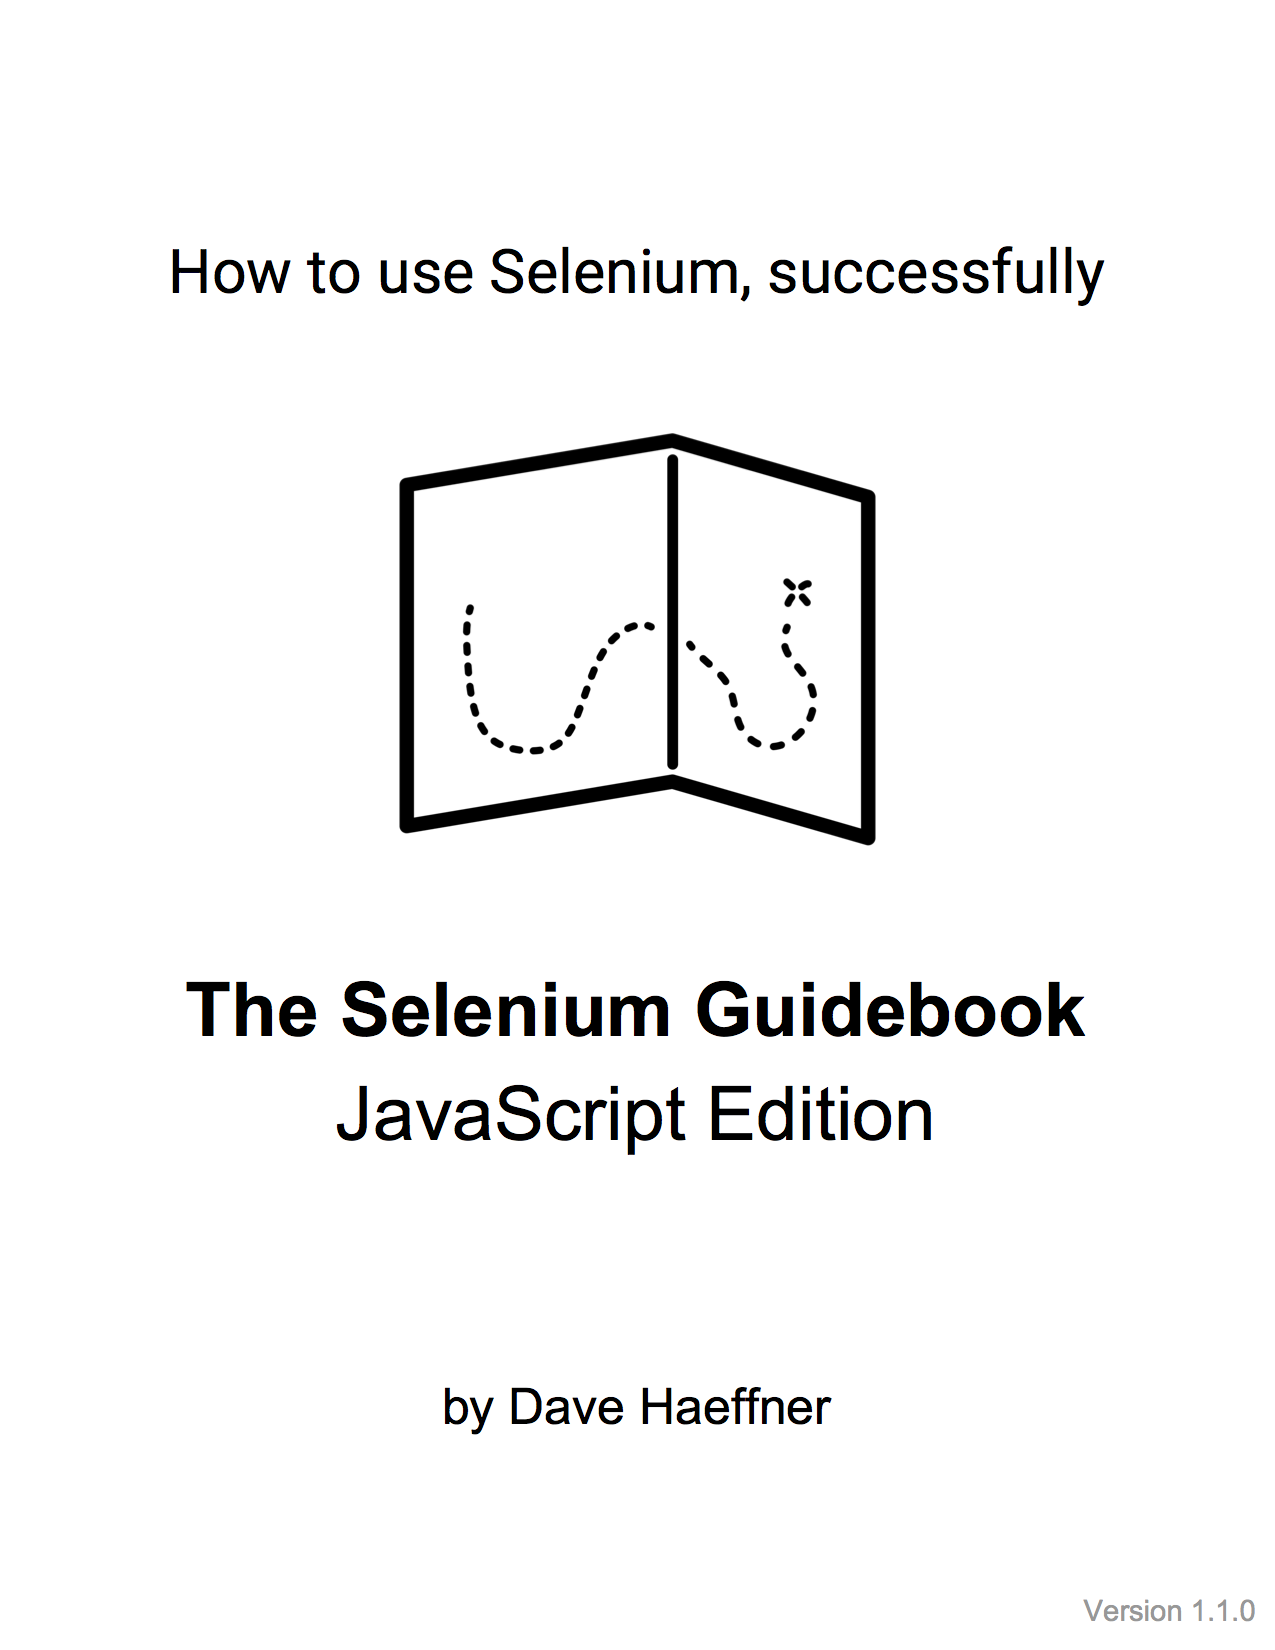
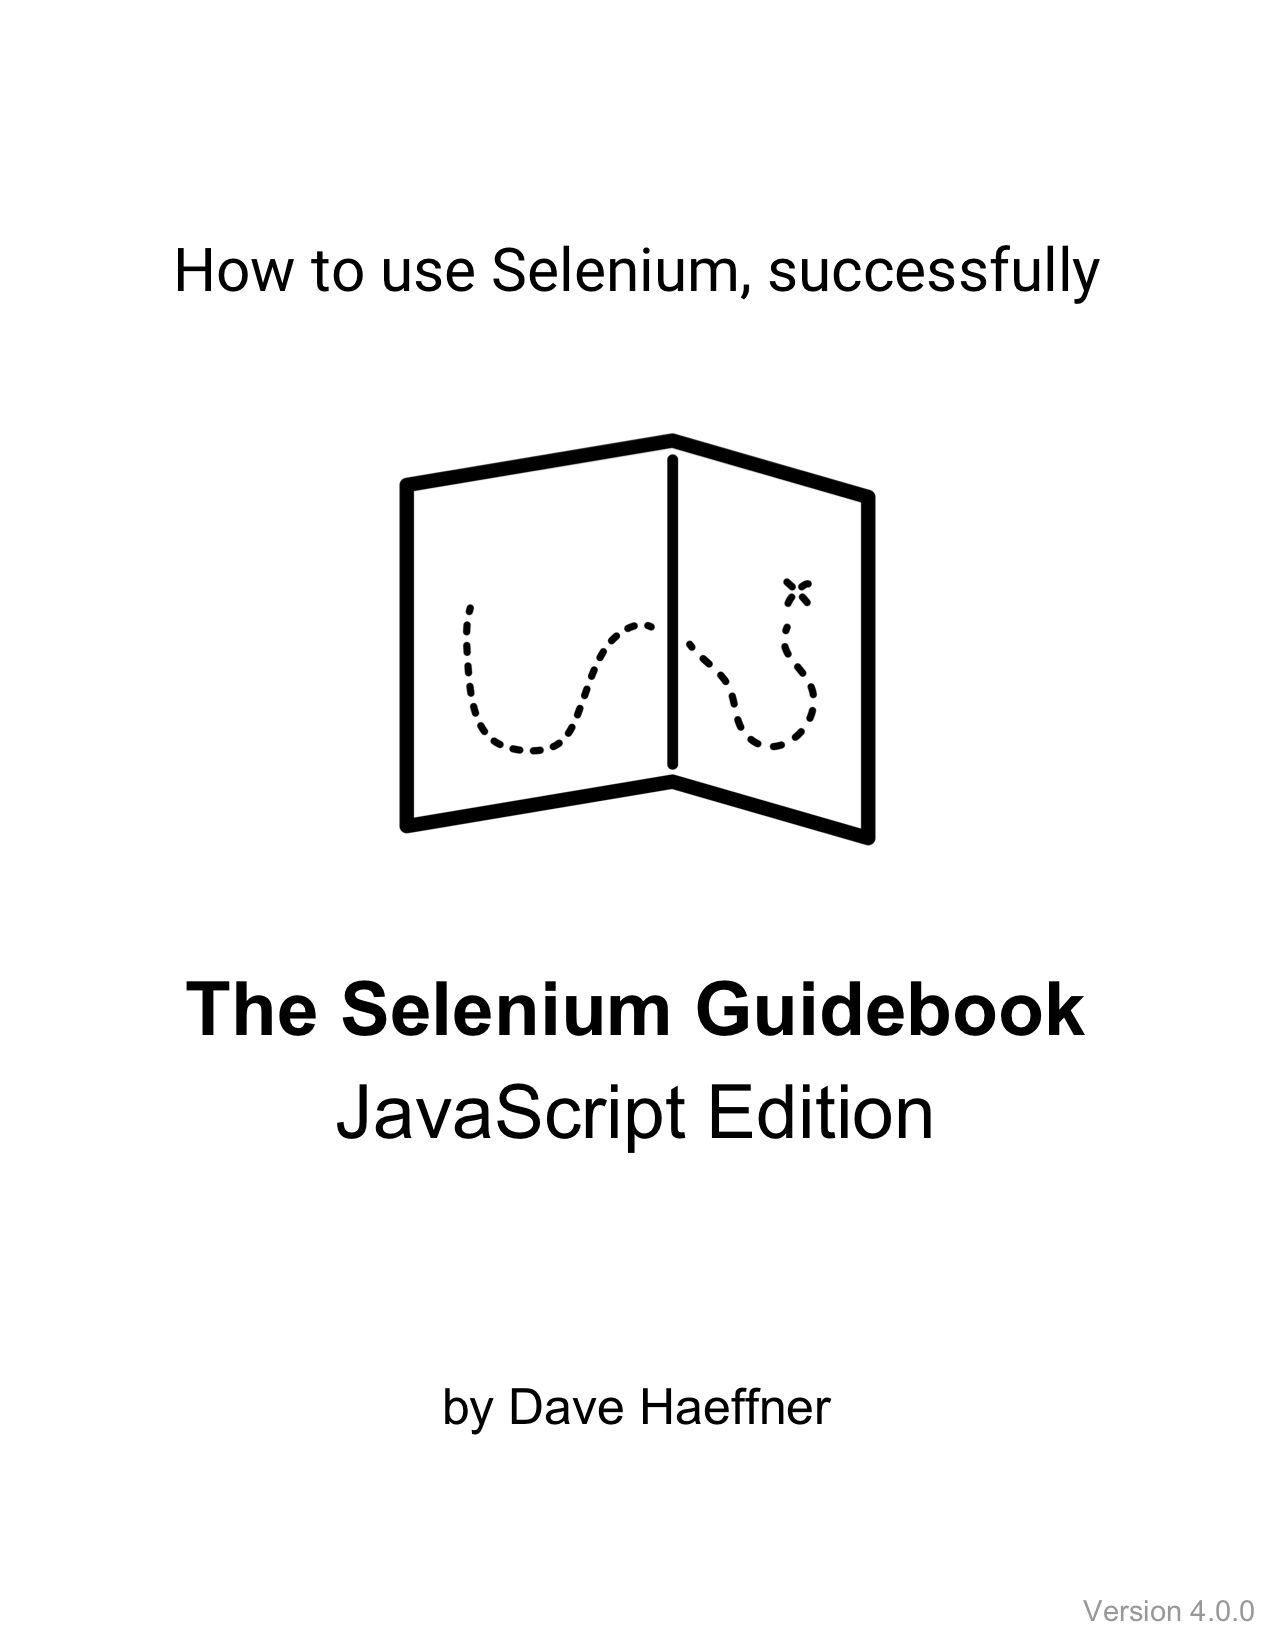
Copy tweaks to JS book and updated cover image

diff --git a/book/javascript/content/chapters/17.md b/book/javascript/content/chapters/17.md
@@ -17,20 +17,19 @@ There are numerous CI Servers available for use today, most notably:
 + [Bamboo](https://www.atlassian.com/software/bamboo)
 + [CircleCI](https://circleci.com)
 + [Jenkins](https://jenkins.io)
-+ [Solano Labs](https://www.solanolabs.com/)
 + [TravisCI](https://travis-ci.org/)
 
 Let's pick one and step through an example.
 
 ## A CI Example
 
-[Jenkins](https://jenkins.io) is a fully functional, widely adopted, open-source CI server. Its a great candidate for us to try.
+[Jenkins](https://jenkins.io) is a fully functional, widely adopted, free and open-source CI server. Its a great candidate for us to try.
 
 Lets start by setting it up on the same machine as our test code. Keep in mind that this isn’t the "proper" way to go about this — its merely beneficial for this example. To do it right, the Jenkins server (e.g., master node) would live on a machine of its own.
 
 ### Part 1: Quick Setup
 
-A simple way to get started is to grab the latest Jenkins war file. You can grab it from the [Jenkins homepage](https://jenkins.io/index.html), or from [the direct download link on the homepage](http://mirrors.jenkins-ci.org/war/latest/jenkins.war).
+A simple way to get started is to grab the latest Jenkins war file. You can grab it from the [Jenkins download page](https://jenkins.io/download/).
 
 Once downloaded, launch it from the command-line.
 
@@ -69,7 +68,7 @@ This will load a configuration screen for the Jenkins job.
 
 ![Jenkins Advanced Job Configuration](jenkins-job-config-advanced.png)
 
-__NOTE: Ideally, your test code would live in a version control system and you would configure your job (under `Source Code Management`) to pull it in and run it. To use this approach you may need to install a plugin to handle it. For more info on plugins in Jenkins, go [here](https://wiki.jenkins-ci.org/display/JENKINS/Plugins).__
+__NOTE: Ideally, your test code would live in a version control system and you would configure your job (under `Source Code Management`) to pull it in and run it. To use this approach you may need to install a plugin to handle it. For more info on plugins in Jenkins, go [here](https://plugins.jenkins.io).__
 
 + Scroll down to the `Build` section and select `Add build step`
 + Select `Execute shell`
@@ -161,7 +160,7 @@ When we follow the URL to the Sauce Labs job we're able to see what happened dur
 
 In order to maximize your CI effectiveness, you'll want to send out notifications to alert your team members when there's a failure.
 
-There are numerous ways to go about this (e.g., e-mail, chat, text, co-located visual cues, etc). Thankfully there are numerous, freely available plugins that can help facilitate whichever method you want. You can find out more about Jenkins' plugins [here](https://wiki.jenkins-ci.org/display/JENKINS/Plugins).
+There are numerous ways to go about this (e.g., e-mail, chat, text, co-located visual cues, etc). Thankfully there are numerous, freely available plugins that can help facilitate whichever method you want. You can find out more about Jenkins' plugins [here](https://plugins.jenkins.io).
 
 For instance, if you wanted to use chat notifications and you use a service like Slack, you would do a plugin search:
 

diff --git a/book/javascript/content/chapters/14.md b/book/javascript/content/chapters/14.md
@@ -95,7 +95,7 @@ If we save everything and run our tests they will execute in Sauce Labs and on t
 
 To run the tests on different browser and operating system combinations, then simply provide their values as command-line options (e.g., `BROWSER='name' BROWSER_VERSION=version PLATFORM='os' mocha`). For a full list of possible options be sure to check out [the Sauce Labs Platform Configurator](https://wiki.saucelabs.com/display/DOCS/Platform+Configurator#/).
 
-__NOTE: There are some changes to DesiredCapaibilties in Selenium 4. Instead of `browser`, `platform`, and `version`, you will need to specify these values as `browserName`, `browserVersion`, and `platformName`. Also, vendor specific options will need to be specified in their own key (e.g., `vendor:options`). For Sauce, this would be `sauce:options`. Details for this new configuration are documented [here](https://wiki.saucelabs.com/display/DOCS/Selenium+W3C+Capabilities+Support+-+Beta). These changes are not required yet since Selenium is still 4 alpha and Sauce Labs has only rolled out this functionality as a beta. When they become the new normal on Sauce Labs, it will just be a small matter of updating your config file.__
+__NOTE: There are some changes to DesiredCapaibilties in Selenium 4. Instead of `browser`, `platform`, and `version`, you will need to specify these values as `browserName`, `browserVersion`, and `platformName`. Also, vendor specific options will need to be specified in their own key (e.g., `vendor:options`). For Sauce, this would be `sauce:options`. Details for this new configuration are documented [here](https://wiki.saucelabs.com/display/DOCS/Selenium+W3C+Capabilities+Support). These changes are not required yet since Selenium is still 4 alpha and Sauce Labs has only rolled out this functionality as a beta. When they become the new normal on Sauce Labs, it will just be a small matter of updating your config file.__
 
 ### Part 2: Test Name
 

diff --git a/book/javascript/content/chapters/04.md b/book/javascript/content/chapters/04.md
@@ -47,7 +47,7 @@ In order to write Node.js code, you will need to use a text editor. Some popular
 
 There's also the option of going for an IDE (Integrated Development Environment) like [WebStorm](https://www.jetbrains.com/webstorm/) (it's not free, but has a free 30-day trial) or [Visual Studio Code](https://code.visualstudio.com).
 
-It's important to pick an editor that works for you and makes you productive. So if you're new to programming and text editors then it's probably best to go with something more intuitive like Sublime Text, or WebStorm. If you end up using WebStorm be sure to check out the documentation on using it with Mocha ([link](https://www.jetbrains.com/help/webstorm/2016.2/running-mocha-unit-tests.html?search=mocha)).
+It's important to pick an editor that works for you and makes you productive. So if you're new to programming and text editors then it's probably best to go with something more intuitive like Sublime Text, or WebStorm. If you end up using WebStorm be sure to check out the documentation on using it with Mocha ([link](https://www.jetbrains.com/help/webstorm/running-unit-tests-on-mocha.html)).
 
 ## Programming Concepts In A Nutshell
 
@@ -358,3 +358,5 @@ Here are some additional resources that can help you continue your JavaScript/No
 + [Node.js Tutorals for Beginners (videos)](https://www.youtube.com/playlist?list=PL6gx4Cwl9DGBMdkKFn3HasZnnAqVjzHn_)
 + [NodeSchool](http://nodeschool.io/)
 + [JavaScript: The Good Parts (book)](https://www.amazon.com/JavaScript-Good-Parts-Douglas-Crockford/dp/0596517742)
+
+

diff --git a/book/javascript/content/chapters/18.md b/book/javascript/content/chapters/18.md
@@ -80,6 +80,7 @@ This is where developers discuss changes to the Selenium project, both technical
 
 + [Selenium Users Google Group](https://groups.google.com/forum/?fromgroups#!forum/selenium-users)
 + [Selenium LinkedIn Users Group](https://www.linkedin.com/groups/961927/)
+
 The signal to noise ratio in these groups can be challenging at times. But you can occasionally find some answers to your questions.
 
 ## Forums
@@ -96,7 +97,7 @@ These are the usual forums where you can go looking for answers to questions you
 
 If you're running into a specific and repeatable issue that just doesn't make sense, you may have found a bug in Selenium. You'll want to check the Selenium Issue Tracker to see if it has already been reported. If not, then create a new issue -- assuming you're able to provide a short and self-contained example that reproduces the problem.
 
-This is known as [SSCCE](http://sscce.org) (a Short, Self Contained, Correct (Compilable), Example). For a tongue-in-cheek take on providing issues with a reproducer, see [this post](http://jimevansmusic.blogspot.com/2012/12/not-providing-html-page-is-bogus.html).
+This is known as [SSCCE](http://sscce.org) (a Short, Self Contained, Correct (Compilable), Example). For a tongue-in-cheek take on the topic, see [this post](http://jimevansmusic.blogspot.com/2012/12/not-providing-html-page-is-bogus.html).
 
 ## Chatting With the Selenium Community
 

diff --git a/book/javascript/content/preface.md b/book/javascript/content/preface.md
@@ -24,7 +24,7 @@ The examples in this book are written in JavaScript, but the strategies and patt
 
 The tests in this book are written to exercise functionality from an open-source project I created and maintain called the-internet -- available [here on GitHub](https://github.com/tourdedave/the-internet) and viewable [here on Heroku](http://the-internet.herokuapp.com/).
 
-The test examples are written with [Node.js](https://nodejs.org/) and [the officially supported Selenium JavaScript bindings](https://github.com/SeleniumHQ/selenium/tree/master/javascript/node/selenium-webdriver) to run on [Mocha](http://mochajs.org/) with [npm](https://docs.npmjs.com/getting-started/what-is-npm) managing the third-party dependencies.
+The test examples are written with [Node.js](https://nodejs.org/) and [the officially supported Selenium JavaScript bindings](https://github.com/SeleniumHQ/selenium/tree/master/javascript/node/selenium-webdriver) to run on [Mocha](http://mochajs.org/) with [npm](https://docs.npmjs.com/about-npm/index.html) managing the third-party dependencies.
 
 All of the code examples from the book are available in an accompanying zip file. It contains folders for each chapter where code was written or altered. Chapters with multiple parts will have multiple sub-folders (e.g., code examples referenced Chapter 9, Part 2 can be found in `09/02/` in the zip file).
 

diff --git a/book/javascript/content/chapters/13.md b/book/javascript/content/chapters/13.md
@@ -81,9 +81,10 @@ Now we can specify Chrome when launching our tests (e.g., `BROWSER=chrome mocha`
 
 A similar approach can be applied to other browser drivers, with the only real limitation being the operating system you're running. But remember -- __no two browser drivers are alike__. Be sure to check out the documentation for the browser you care about to find out the specific requirements:
 
-+ [ChromeDriver](https://github.com/seleniumhq/selenium/wiki/ChromeDriver)
-+ [EdgeDriver](https://developer.microsoft.com/en-us/microsoft-edge/platform/documentation/dev-guide/tools/webdriver/)
-+ [FirefoxDriver](https://github.com/seleniumhq/selenium/wiki/FirefoxDriver)
-+ [InternetExplorerDriver](https://github.com/seleniumhq/selenium/wiki/InternetExplorerDriver)
-+ [SafariDriver](https://webkit.org/blog/6900/webdriver-support-in-safari-10/)
++ [ChromeDriver](https://sites.google.com/a/chromium.org/chromedriver/)
++ [EdgeDriver](https://docs.microsoft.com/en-us/microsoft-edge/webdriver)
++ [geckodriver (Firefox)](https://github.com/mozilla/geckodriver)
++ [InternetExplorerDriver](https://github.com/SeleniumHQ/selenium/wiki/InternetExplorerDriver)
++ [SafariDriver](https://developer.apple.com/documentation/webkit/testing_with_webdriver_in_safari)
+
 

diff --git a/book/javascript/content/chapters/08.md b/book/javascript/content/chapters/08.md
@@ -32,7 +32,7 @@ describe('Login', function() {
 
 Next, in the test's `beforeEach` we'll wire up the code which connects the test to Applitools.
 
-```javacript
+```javascript
 // filename: test/LoginTest.js
 // ...
   beforeEach(async function() {
